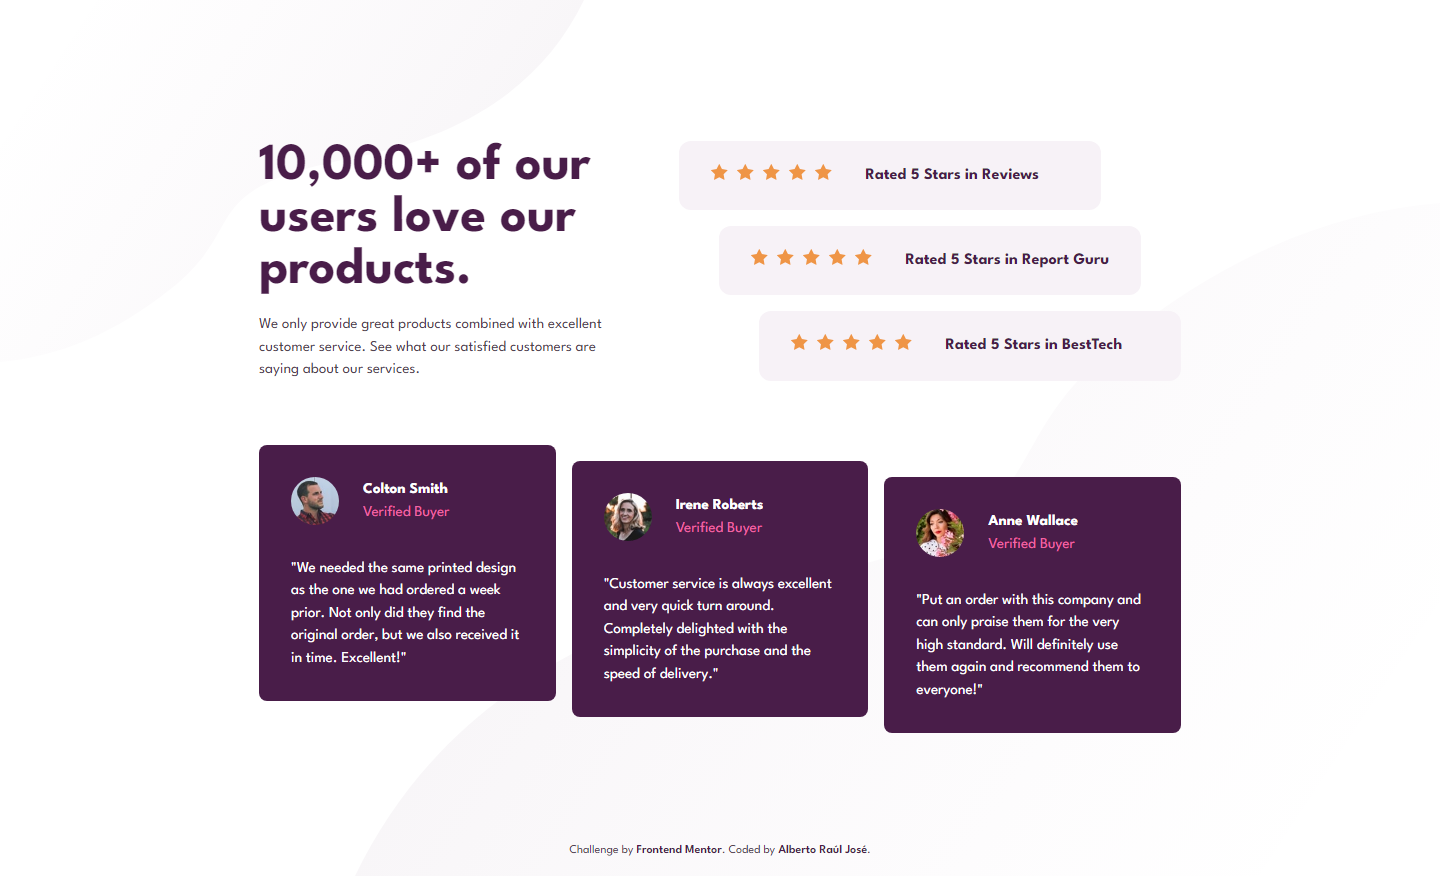
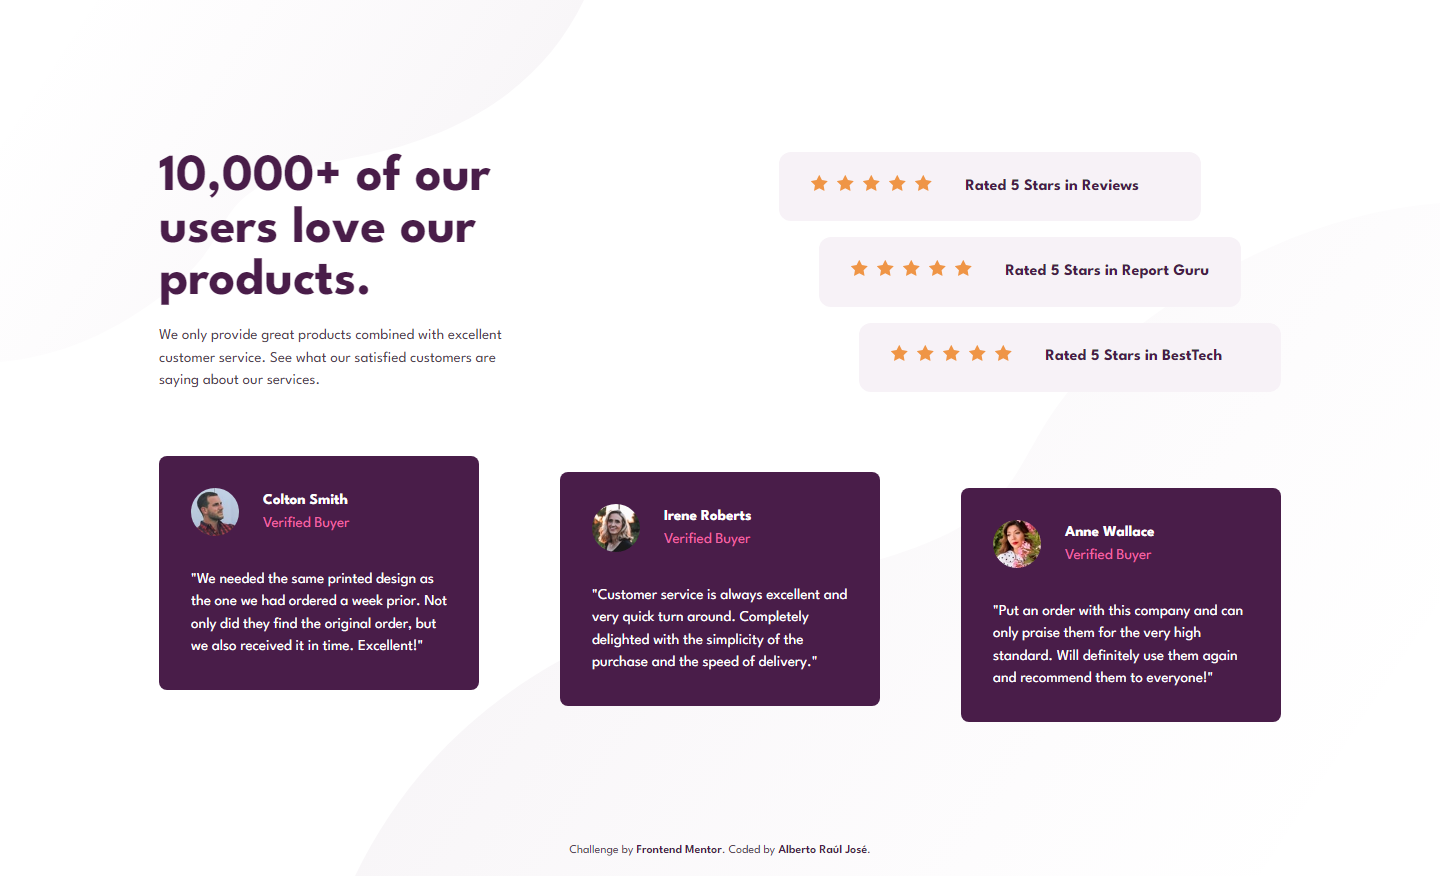
updated project

diff --git a/styles/index.css b/styles/index.css
@@ -31,7 +31,7 @@ body {
 /* container */
 .container {
   margin: 0 auto;
-  max-width: 65.625rem;
+  max-width: 78.125rem;
   width: 90%;
 }
 /* container */
